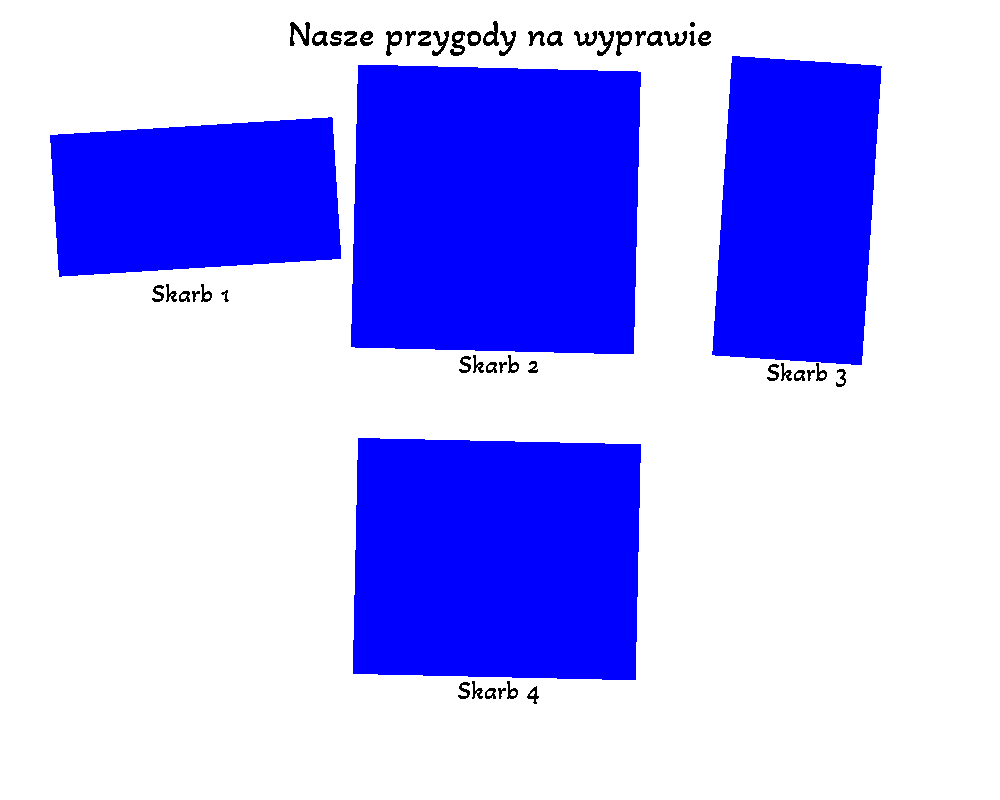
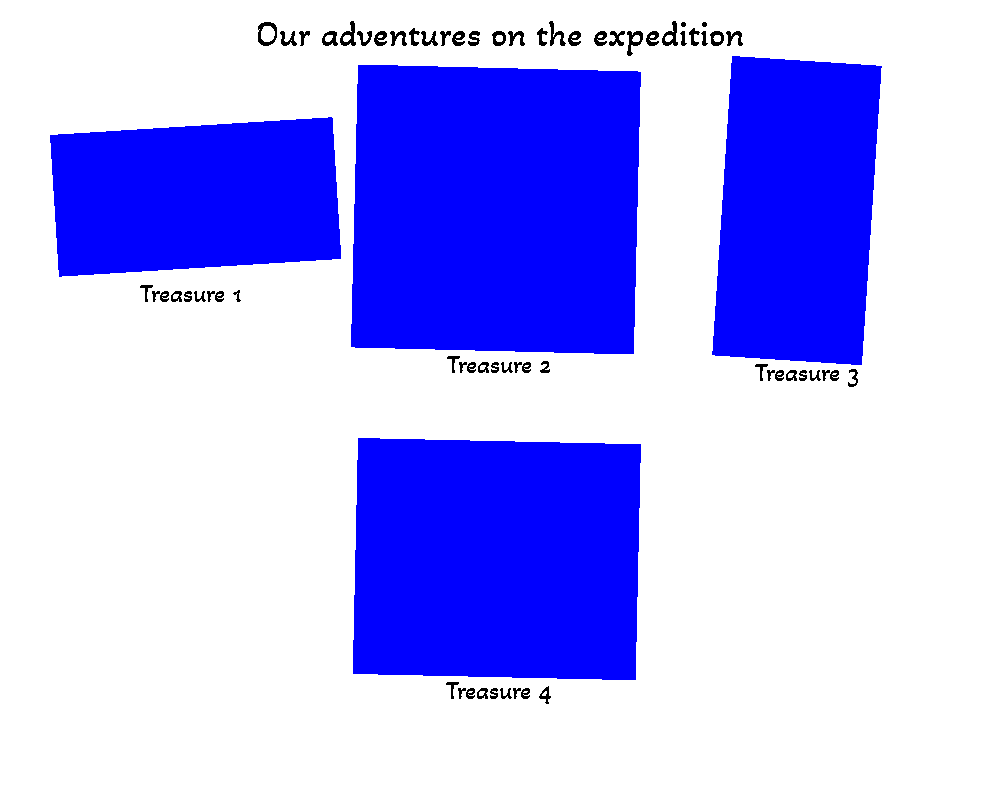
#34 share on facebook - internationalization

diff --git a/app/src/main/java/pl/marianjureczko/poszukiwacz/activity/facebook/ReportSummary.kt b/app/src/main/java/pl/marianjureczko/poszukiwacz/activity/facebook/ReportSummary.kt
@@ -1,5 +1,6 @@
 package pl.marianjureczko.poszukiwacz.activity.facebook
 
+import android.content.Context
 import android.graphics.Canvas
 import android.graphics.Paint
 import android.graphics.Typeface
@@ -18,14 +19,16 @@ class ReportSummary(
             0f
         }
 
-    fun draw(canvas: Canvas, currentTop: Float) {
+    fun draw(context: Context, canvas: Canvas, currentTop: Float) {
         if (model.getSummaryElement().isSelected) {
+            //TODO t: already defined (?)
             val textPaint = ReportCommons.getTextPaint(font, Paint.Align.LEFT)
 
-            val summarySize = textPaint.measureText(summaryText(model.progress))
+            val summaryText = summaryText(context, model.progress)
+            val summarySize = textPaint.measureText(summaryText)
             val textY = currentTop + 50
             var x = ReportGenerator.margin
-            canvas.drawText(summaryText(model.progress), x, textY, textPaint)
+            canvas.drawText(summaryText, x, textY, textPaint)
             val gold = IconHelper.loadIcon(R.drawable.gold, 40)
             x += summarySize
             canvas.drawBitmap(gold, x, currentTop + 20, null)
@@ -44,16 +47,26 @@ class ReportSummary(
             canvas.drawText(rubies, x, textY, textPaint)
             val ruby = IconHelper.loadIcon(R.drawable.ruby, 50)
             x += rubiesSize
-            canvas.drawBitmap(ruby, 565f, currentTop + 10, null);
+            canvas.drawBitmap(ruby, x, currentTop + 10, null)
         }
     }
 
-    private fun summaryText(progress: TreasuresProgress): String {
+    private fun summaryText(context: Context, progress: TreasuresProgress): String {
+        val treasure1 = context.getString(R.string.treasure1)
+        val treasure2 = context.getString(R.string.treasure2)
+        val treasureMany = context.getString(R.string.treasure_many)
         val count = progress.numberOfCollectedTreasures()
-        var treasures = "skarbów"
-        if (count == 1) treasures = "skarb"
-        else if (count in 2..4) treasures = "skarby"
-        return "Wynik poszukiwań to $count $treasures: ${progress.golds}"
+        var treasures = treasureAsWord(treasure1, treasure2, treasureMany, count)
+        return "${context.getString(R.string.we_found)} $count $treasures: ${progress.golds}"
     }
 }
 
+fun treasureAsWord(one: String, two: String, many: String, quantity: Int): String {
+    return if (quantity == 1) {
+        one;
+    } else if (quantity in 2..4) {
+        two;
+    } else {
+        many;
+    }
+}

diff --git a/app/src/main/java/pl/marianjureczko/poszukiwacz/activity/facebook/ReportTitle.kt b/app/src/main/java/pl/marianjureczko/poszukiwacz/activity/facebook/ReportTitle.kt
@@ -1,9 +1,11 @@
 package pl.marianjureczko.poszukiwacz.activity.facebook
 
+import android.content.Context
 import android.graphics.Canvas
 import android.graphics.Color
 import android.graphics.Paint
 import android.graphics.Typeface
+import pl.marianjureczko.poszukiwacz.R
 import pl.marianjureczko.poszukiwacz.model.TreasuresProgress
 
 class ReportTitle(
@@ -12,20 +14,20 @@ class ReportTitle(
 ) : ReportPart {
     override fun height(): Float = 150f
 
-    fun draw(canvas: Canvas) {
+    fun draw(context: Context, canvas: Canvas) {
         val titlePaint = Paint().apply {
             color = Color.BLUE
             textSize = 46f
             textAlign = Paint.Align.CENTER
             typeface = font
         }
-        title(canvas, titlePaint, model.progress)
+        title(context, canvas, titlePaint, model.progress)
     }
 
-    private fun title(canvas: Canvas, titlePaint: Paint, progress: TreasuresProgress) {
-        canvas.drawText("Mały Poszukiwacz Skarbów", ReportGenerator.width() / 2, 100f, titlePaint)
+    private fun title(context: Context, canvas: Canvas, titlePaint: Paint, progress: TreasuresProgress) {
+        canvas.drawText(context.getString(R.string.app_name), ReportGenerator.width() / 2, 100f, titlePaint)
         val maxTitleLength = 20
         val routeName = if (progress.routeName.length > maxTitleLength) "${progress.routeName.subSequence(0, maxTitleLength)}..." else progress.routeName
-        canvas.drawText("Raport z wyprawy, trasa \"$routeName\"", ReportGenerator.width() / 2, 150f, titlePaint)
+        canvas.drawText("${context.getString(R.string.report_from_expedition)} \"$routeName\"", ReportGenerator.width() / 2, 150f, titlePaint)
     }
 }

diff --git a/app/src/main/java/pl/marianjureczko/poszukiwacz/activity/facebook/ReportCommemorativePhotos.kt b/app/src/main/java/pl/marianjureczko/poszukiwacz/activity/facebook/ReportCommemorativePhotos.kt
@@ -1,11 +1,13 @@
 package pl.marianjureczko.poszukiwacz.activity.facebook
 
+import android.content.Context
 import android.graphics.Bitmap
 import android.graphics.BitmapFactory
 import android.graphics.Canvas
 import android.graphics.Matrix
 import android.graphics.Paint
 import android.graphics.Typeface
+import pl.marianjureczko.poszukiwacz.R
 import pl.marianjureczko.poszukiwacz.shared.PhotoHelper
 import java.io.File
 import java.io.FileInputStream
@@ -51,16 +53,17 @@ class ReportCommemorativePhotos(
             heightOfAllPhotos(photos) + ReportCommons.HEADER_FONT_SIZE + 2 * HORIZONTAL_SPACING
         }
 
-    fun draw(canvas: Canvas, currentTop: Float) {
+    fun draw(context: Context, canvas: Canvas, currentTop: Float) {
         if (photos.isNotEmpty()) {
             this.canvas = canvas
-            photosHeader(currentTop)
+            photosHeader(context, currentTop)
             photos(currentTop + ReportCommons.HEADER_FONT_SIZE + 2 * HORIZONTAL_SPACING)
         }
     }
 
-    private fun photosHeader(y: Float) {
-        canvas.drawText("Nasze przygody na wyprawie", ReportGenerator.width() / 2, y + ReportCommons.HEADER_FONT_SIZE + HORIZONTAL_SPACING, headerPaint)
+    private fun photosHeader(context: Context, y: Float) {
+        val headerTxt = context.getString(R.string.our_adventures)
+        canvas.drawText(headerTxt, ReportGenerator.width() / 2, y + ReportCommons.HEADER_FONT_SIZE + HORIZONTAL_SPACING, headerPaint)
     }
 
     private fun photos(y: Float) {

diff --git a/app/src/test/java/pl/marianjureczko/poszukiwacz/activity/facebook/ReportSummaryKtTest.kt b/app/src/test/java/pl/marianjureczko/poszukiwacz/activity/facebook/ReportSummaryKtTest.kt
@@ -1,0 +1,33 @@
+package pl.marianjureczko.poszukiwacz.activity.facebook
+
+import org.assertj.core.api.Assertions.assertThat
+import org.junit.jupiter.params.ParameterizedTest
+import org.junit.jupiter.params.provider.Arguments
+import org.junit.jupiter.params.provider.MethodSource
+
+class ReportSummaryKtTest {
+
+    companion object {
+        @JvmStatic
+
+        fun data() = listOf<Arguments>(
+            Arguments.of("one", "two", "many", 0, "many"),
+            Arguments.of("one", "two", "many", 1, "one"),
+            Arguments.of("one", "two", "many", 2, "two"),
+            Arguments.of("one", "two", "many", 3, "two"),
+            Arguments.of("one", "two", "many", 4, "two"),
+            Arguments.of("one", "two", "many", 5, "many"),
+            Arguments.of("one", "two", "many", 95, "many")
+        )
+    }
+
+    @ParameterizedTest(name = "SHOULD use form proper for given quantity")
+    @MethodSource("data")
+    fun test(one: String, two: String, many: String, quantity: Int, expected: String) {
+        //when
+        val actual = treasureAsWord(one, two, many, quantity)
+
+        //then
+        assertThat(actual).isEqualTo(expected)
+    }
+}

diff --git a/app/src/main/java/pl/marianjureczko/poszukiwacz/activity/facebook/FacebookViewModel.kt b/app/src/main/java/pl/marianjureczko/poszukiwacz/activity/facebook/FacebookViewModel.kt
@@ -21,9 +21,10 @@ class FacebookViewModel(private val state: SavedStateHandle) : ViewModel() {
         this.progress = progress
         val elements = mutableListOf<ElementDescription>()
         //TODO use string.xml
-        elements.add(ElementDescription(Type.TREASURES_SUMMARY, true, "Zebrane skarby"))
+        elements.add(ElementDescription(Type.TREASURES_SUMMARY, true, context.getString(R.string.collected_treasures)))
+        val treasure = context.getString(R.string.treasure)
         progress.commemorativePhotosByTreasuresDescriptionIds.forEach { (id, photo) ->
-            elements.add(ElementDescription(Type.COMMEMORATIVE_PHOTO, true, "Skarb $id", orderNumber = id, photo = photo))
+            elements.add(ElementDescription(Type.COMMEMORATIVE_PHOTO, true, "$treasure $id", orderNumber = id, photo = photo))
         }
         elements.add(ElementDescription(Type.MAP, true, context.getString(R.string.treasures_map)))
         elements.add(ElementDescription(Type.MAP_ROUTE, true, context.getString(R.string.route_on_map)))

diff --git a/app/src/androidTest/java/pl/marianjureczko/poszukiwacz/activity/facebook/ReportCommemorativePhotosTest.kt b/app/src/androidTest/java/pl/marianjureczko/poszukiwacz/activity/facebook/ReportCommemorativePhotosTest.kt
@@ -16,6 +16,7 @@ import java.util.UUID
 @RunWith(AndroidJUnit4::class)
 internal class ReportCommemorativePhotosTest : ReportAbstractTest() {
 
+    //TODO t uniform tmp file management across all tests, do not delete ???
     private val tmpFile = "/bitmap.png"
     private val filesToDelete = mutableListOf<String>()
     private val seed = 1L
@@ -41,7 +42,7 @@ internal class ReportCommemorativePhotosTest : ReportAbstractTest() {
         val reportPhotos = ReportCommemorativePhotos(model, font, seed)
 
         //when
-        reportPhotos.draw(canvas, 0f)
+        reportPhotos.draw(context, canvas, 0f)
 
         //then
         //save to hava a reference in case of failing test
@@ -63,7 +64,7 @@ internal class ReportCommemorativePhotosTest : ReportAbstractTest() {
         val reportPhotos = ReportCommemorativePhotos(model, font, seed)
 
         //when
-        reportPhotos.draw(canvas, 0f)
+        reportPhotos.draw(context, canvas, 0f)
 
         //then
         //save to hava a reference in case of failing test

diff --git a/app/src/androidTest/java/pl/marianjureczko/poszukiwacz/activity/facebook/ReportSummaryTest.kt b/app/src/androidTest/java/pl/marianjureczko/poszukiwacz/activity/facebook/ReportSummaryTest.kt
@@ -27,11 +27,11 @@ internal class ReportSummaryTest : ReportAbstractTest() {
         model.initialize(treasuresProgress, context)
 
         //when
-        reportSummary.draw(canvas, 0f)
+        reportSummary.draw(context, canvas, 0f)
 
         //then
         //save to hava a reference in case of failing test, image available at /data/data/pl.marianjureczko.poszukiwacz/files/map_summary.png
-        bitmap.compress(Bitmap.CompressFormat.PNG, 100, File(context.getFilesDir(), "/map_summary.png").outputStream())
+        bitmap.compress(Bitmap.CompressFormat.PNG, 100, File(context.getFilesDir(), "/summary.png").outputStream())
         assertTrue(bitmap.sameAs(expected("summary.png")))
     }
 }

diff --git a/app/src/main/java/pl/marianjureczko/poszukiwacz/activity/facebook/ReportGenerator.kt b/app/src/main/java/pl/marianjureczko/poszukiwacz/activity/facebook/ReportGenerator.kt
@@ -44,13 +44,13 @@ class ReportGenerator {
         canvas.drawColor(Color.WHITE)
 
         var currentTop = 0f
-        title.draw(canvas)
+        title.draw(context, canvas)
         currentTop += title.height()
 
-        summary.draw(canvas, currentTop)
+        summary.draw(context, canvas, currentTop)
         currentTop += summary.height()
 
-        commemorativePhotos.draw(canvas, currentTop)
+        commemorativePhotos.draw(context, canvas, currentTop)
         currentTop += commemorativePhotos.height()
 
         mapHeader.draw(context, canvas, currentTop)

diff --git a/app/src/main/java/pl/marianjureczko/poszukiwacz/activity/facebook/ReportMapSummary.kt b/app/src/main/java/pl/marianjureczko/poszukiwacz/activity/facebook/ReportMapSummary.kt
@@ -10,7 +10,6 @@ import pl.marianjureczko.poszukiwacz.model.HunterPath
 import java.text.DateFormat
 import java.util.Locale
 
-
 class ReportMapSummary(
     private val model: FacebookViewModel,
     private val font: Typeface

diff --git a/README.md b/README.md
@@ -8,7 +8,7 @@ TODO:
 - ~~-GitHub copilot~~
 - ~~-wyciągnąć token do "propertisów"~~
 - ~~podpisy pod poziomymi obrazkami są na złej wysokości (pod ostatnią linią wypada poza raport)~~
-- ikony skarbów nachodzą na tekst
+- ~~ikony skarbów nachodzą na tekst~~
 - ~~komunikaty błędów przy eksporcie do facebooka (brak facebooka, brak sieci...)~~
 - ~~przekrzywić zdjęcia pamiątki ze skarbów (może razem z podpisami)~~
 - ~~dodać dialog do wyboru trasy do eksportu do facebooka dla akcji nie działających w konekście trasy~~
@@ -20,6 +20,7 @@ TODO:
 - ~~aktywność (FacebookActivity) do wyboru elementów do eksportu (przy pamiątkowych zdjęciach możliwość obracania)~~
 - ~~poprawić ikonę do obracania zdjęć~~
 - przyciski na PhotoActivity nie działają
-- internacjonalizacj tekstów
+- ~~internacjonalizacj tekstów~~
 - //TODO: deprecated -> FacebookSdk.sdkInitialize(applicationContext)
 - ~~stopka z odnośnikiem do sklepu play~~
+- refaktoryzacja (TODOs)
